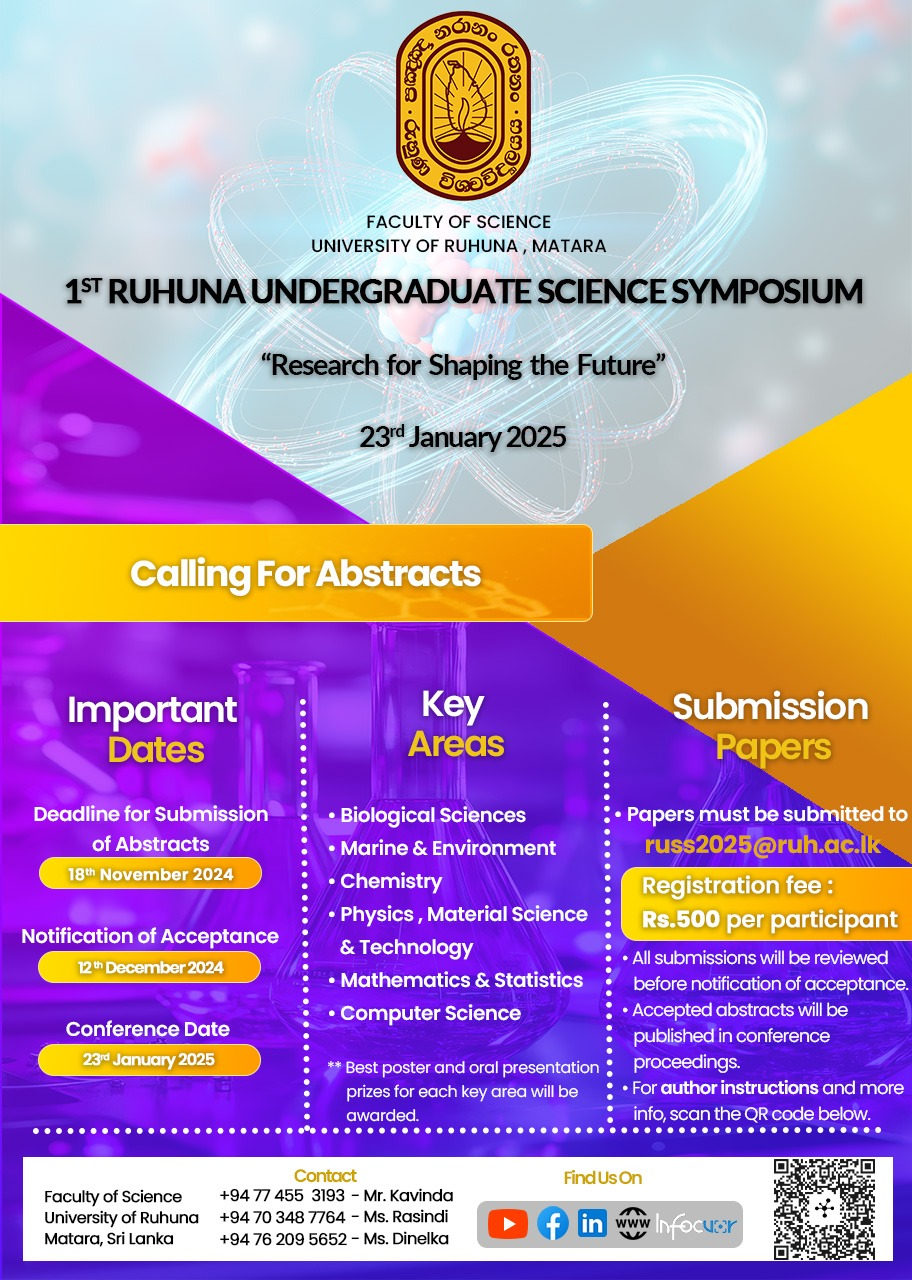
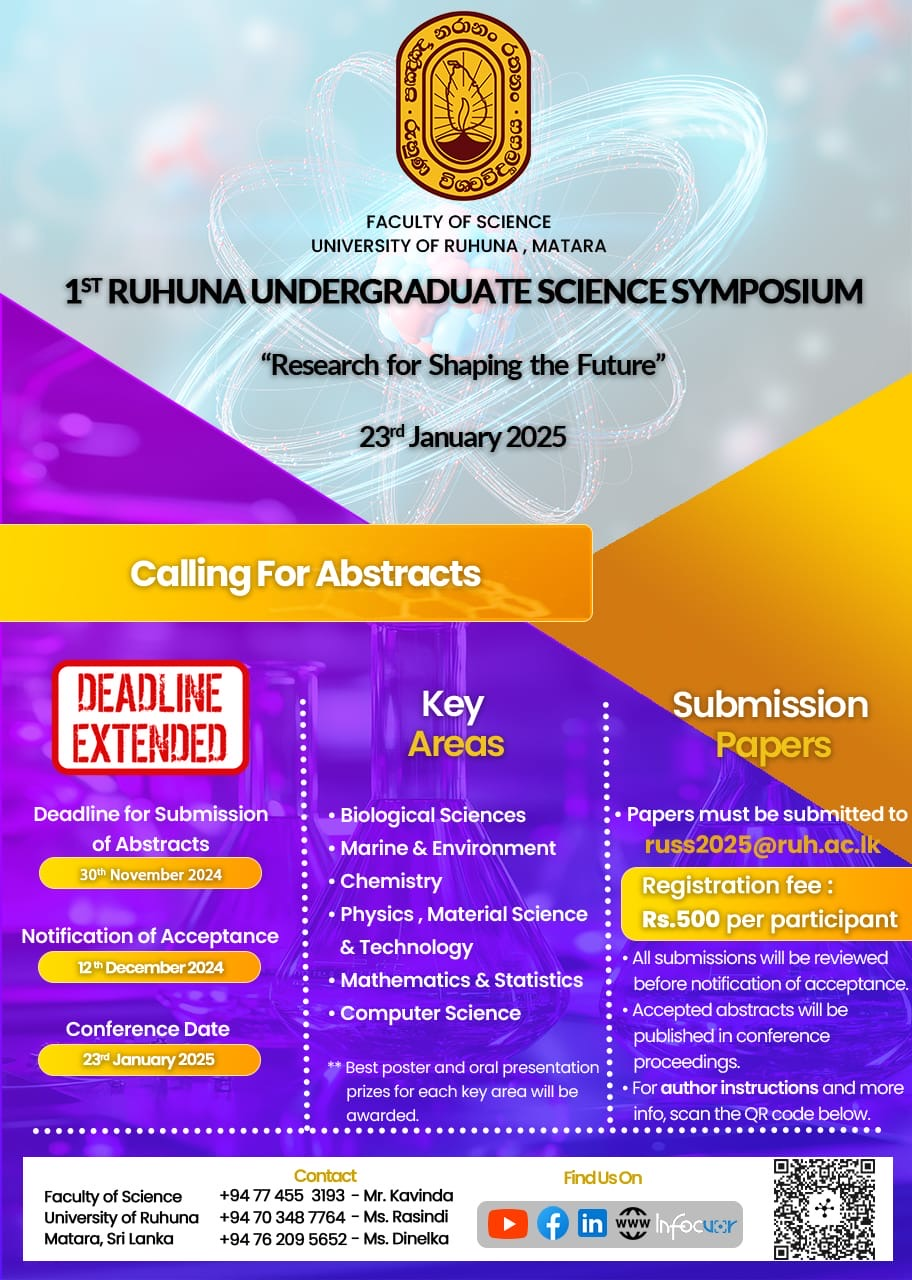
added other sponsors

diff --git a/src/components/sponser/Brick.jsx b/src/components/sponser/Brick.jsx
@@ -1,6 +1,5 @@
-import React from "react";
-import { MdOutlineMail, MdLocationPin } from "react-icons/md";
-import { Link } from "react-router-dom";
+/* eslint-disable react/prop-types */
+import { MdLocationPin } from "react-icons/md";
 
 const Brick = ({ sponsers }) => {
   document.title = "Sponsor Wall";
@@ -16,9 +15,11 @@ const Brick = ({ sponsers }) => {
           >
             {/* Brick {index + 1} */}
             {index.name}
-            <div className="text-s mt-2 flex flex-row">
-              <MdLocationPin className="mt-1" />
-              {index.location}
+            <div className="text-sm mt-2 flex flex-row">
+              <p className="text-center inline-flex">
+                <MdLocationPin className="mt-1" size={16}></MdLocationPin>
+                {index.location}
+              </p>
             </div>
           </div>
         ))}
@@ -36,26 +37,6 @@ const Brick = ({ sponsers }) => {
             </div>
           </div>
         ))}
-      </div>
-      <p className="mt-8">
-        Want to be a sponsor,{" "}
-        <Link
-          to="/team#contact-info"
-          className="font-semibold hover:underline hover:text-[#6D2C95]"
-        >
-          Contact us
-        </Link>{" "}
-        for more info{" "}
-      </p>
-      <div className="ml-8 flex items-center">
-        <MdOutlineMail className="text-2xl" />
-        <a
-          target="_blank"
-          href="mailto:russ2025@sci.ruh.ac.lk"
-          className="text-sm ml-1 underline"
-        >
-          russ2025@sci.ruh.ac.lk
-        </a>
       </div>
     </div>
   );

diff --git a/src/components/home/TimeLine.jsx b/src/components/home/TimeLine.jsx
@@ -10,7 +10,7 @@ const Timeline = () => {
         mode="VERTICAL_ALTERNATING"
         enableOutline
         disableToolbar
-        activeItemIndex={0}
+        activeItemIndex={1}
         disableClickOnCircle
         useReadMore={false}
         theme={{
@@ -28,19 +28,23 @@ const Timeline = () => {
         items={[
           {
             cardTitle: (
-              <p>
-                18<sup>th</sup> November 2024
+              <p className="line-through">
+                30<sup>th</sup> November 2024
               </p>
             ),
-            title: "Deadline for Submission of Abstracts",
+            title: (
+              <p className="line-through">
+                Deadline for Submission of Abstracts
+              </p>
+            ),
             cardSubtitle: (
-              <p>
-                Abstracts must be submitted by 18<sup>th</sup> November 2024
+              <p className="line-through">
+                Abstracts must be submitted by 30<sup>th</sup> November 2024
               </p>
             ),
             cardDetailedText: (
-              <p>
-                The deadline for submission of abstracts is 18<sup>th</sup>{" "}
+              <p className="line-through">
+                The deadline for submission of abstracts is 30<sup>th</sup>{" "}
                 November 2024. Abstracts must be submitted by this date to be
                 considered for the symposium.
               </p>

diff --git a/src/components/sponser/Others.jsx b/src/components/sponser/Others.jsx
@@ -1,0 +1,42 @@
+import sponsor1logo from "../../assets/natures_secret_logo.jpg";
+
+import { MdOutlineMail } from "react-icons/md";
+import { Link } from "react-router-dom";
+
+const Others = () => {
+  return (
+    <div className="flex flex-col items-center py-6">
+      <h1 className="text-3xl font-semibold mb-6">Other Sponsors</h1>
+      <div>
+        <img
+          src={sponsor1logo}
+          alt="Sponsor Logo"
+          className="w-64 h-40 object-cover rounded-lg"
+        />
+        <p></p>
+      </div>
+      <p className="mt-8">
+        Want to be a sponsor,{" "}
+        <Link
+          to="/team#contact-info"
+          className="font-semibold hover:underline hover:text-[#6D2C95]"
+        >
+          Contact us
+        </Link>{" "}
+        for more info{" "}
+      </p>
+      <div className="ml-8 flex items-center">
+        <MdOutlineMail className="text-2xl" />
+        <a
+          target="_blank"
+          href="mailto:russ2025@sci.ruh.ac.lk"
+          className="text-sm ml-1 underline"
+        >
+          russ2025@sci.ruh.ac.lk
+        </a>
+      </div>
+    </div>
+  );
+};
+
+export default Others;

diff --git a/src/components/home/HeroSlider.jsx b/src/components/home/HeroSlider.jsx
@@ -67,8 +67,8 @@ const HeroSlider = () => {
               1<sup>st</sup> Ruhuna Undergraduate <br />
               <span className="block mt-4">Science Symposium</span>
             </h1>
-            <p className="my-4 w-full md:w-[30%] text-lg">
-              "Researches for shaping the future"
+            <p className="my-4 w-full md:w-[30%] text-xl">
+              &quot;Research for shaping the future&quot;
             </p>
 
             <div className="flex flex-row items-center">
@@ -89,7 +89,7 @@ const HeroSlider = () => {
               to="/programme"
               className="bg-buttonbg flex items-center gap-1 hover:gap-4 uppercase text-white hover:text-black py-2 px-8 rounded-lg hover:bg-buttonhover transition-all duration-300 mt-4"
             >
-              Calling For Abstracts
+              More About Symposium
               <IoIosArrowForward className="text-button-text text-xl  " />
             </Link>
           </div>

diff --git a/src/components/sponser/Sponser.jsx b/src/components/sponser/Sponser.jsx
@@ -1,11 +1,8 @@
-import React, { useEffect, useState } from "react";
-import { createClient } from "@supabase/supabase-js";
-import Brick from "./Brick";
+import { useEffect, useState } from "react";
+import supabase from "../../../supabase";
 
-const supabase = createClient(
-  "https://tmhwmhohmordamuekswf.supabase.co",
-  "eyJhbGciOiJIUzI1NiIsInR5cCI6IkpXVCJ9.eyJpc3MiOiJzdXBhYmFzZSIsInJlZiI6InRtaHdtaG9obW9yZGFtdWVrc3dmIiwicm9sZSI6ImFub24iLCJpYXQiOjE3MzEyMjY4ODYsImV4cCI6MjA0NjgwMjg4Nn0.oO7RgSYFjK8r8WhW5bcyZ_97zqEsiRGRF5er_CVrSPY"
-);
+import Brick from "./Brick";
+import Others from "./Others";
 
 function Sponser() {
   const [sponsers, setSponsers] = useState([]);
@@ -22,6 +19,7 @@ function Sponser() {
     <div className="min-h-screen bg-gradient-to-b from-indigo-50 to-indigo-100 text-gray-800">
       <div className="container mx-auto px-4">
         <Brick sponsers={sponsers} />
+        <Others />
       </div>
     </div>
   );

diff --git a/src/components/team/Team.jsx b/src/components/team/Team.jsx
@@ -1,11 +1,9 @@
-import React from "react";
 import { Swiper, SwiperSlide } from "swiper/react";
 import { Keyboard, Pagination, Navigation } from "swiper/modules";
 import "swiper/css";
 import "swiper/css/pagination";
 import "swiper/css/navigation";
 
-import { FaUserLarge } from "react-icons/fa6";
 import { IoIosCall, IoIosMail } from "react-icons/io";
 import { FaGithub } from "react-icons/fa";
 
@@ -143,7 +141,6 @@ const Team = () => {
     data.map((item, index) => (
       <SwiperSlide key={index} className="flex justify-center m-2">
         <div className="flex flex-col bg-gray-100 h-64 w-64 shadow-md p-4 items-center justify-center rounded-xl max-w-xs text-center">
-          <FaUserLarge color="#6D2C95" size={128} />
           <h3 className="font-semibold text-lg">{item.role || item.name}</h3>
           <p className="text-gray-600">{item.role == null ? "" : item.name}</p>
           {item.department && (

diff --git a/src/components/program/Program.jsx b/src/components/program/Program.jsx
@@ -1,4 +1,3 @@
-import React from "react";
 import { IoIosCall } from "react-icons/io";
 
 import LazyShow from "../animations/LazyShow";
@@ -17,7 +16,7 @@ const Program = () => {
             1<sup>st</sup> Ruhuna Undergraduate Science Symposium 2025
           </h1>
           <p className="mt-4 text-lg italic">
-            "Researches for Shaping the Future"
+            &quot;Researches for Shaping the Future&quot;
           </p>
           <p className="mt-2 text-lg">
             23<sup>rd</sup> January 2025
@@ -38,7 +37,7 @@ const Program = () => {
             <p className="text-lg font-semibold">
               Deadline for Submission of Abstracts:{" "}
               <span className="font-bold">
-                17<sup>th</sup> November 2024
+                30<sup>th</sup> November 2024
               </span>
             </p>
             <p className="mt-2 text-lg">

diff --git a/src/components/home/About.jsx b/src/components/home/About.jsx
@@ -18,12 +18,6 @@ const About = () => {
           innovations, practical challenges encountered and the solutions
           adopted in the fields of Science & Technology.
         </p>
-        <Link
-          to="/programme"
-          className="bg-buttonbg w-fit mx-auto flex items-center gap-1 hover:gap-4 uppercase text-white hover:text-black py-2 px-8 rounded-lg hover:bg-buttonhover transition-all duration-300 mt-4"
-        >
-          More About Symposium
-        </Link>
         <div className="flex flex-row gap-4 md:gap-10 mt-6 mb-24">
           <div className=" w-full h-full ">
             <img

diff --git a/supabase.js b/supabase.js
@@ -1,0 +1,8 @@
+import { createClient } from "@supabase/supabase-js";
+
+const supabase = createClient(
+  import.meta.env.VITE_SUPABASE_LINK,
+  import.meta.env.VITE_SUPABASE_KEY
+);
+
+export default supabase;

diff --git a/src/components/home/Home.jsx b/src/components/home/Home.jsx
@@ -1,5 +1,3 @@
-import React from "react";
-
 import HeroSlider from "./HeroSlider";
 import PastSymp from "./About";
 import Timeline from "./TimeLine";
